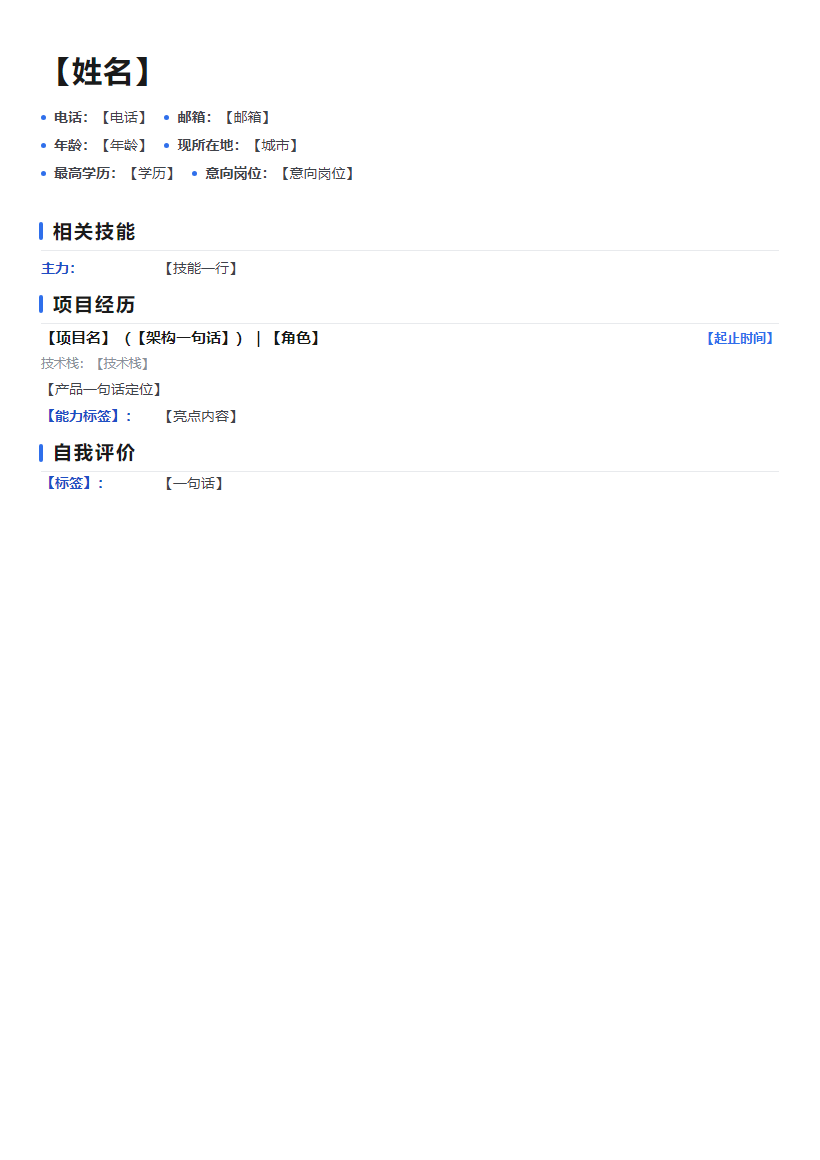
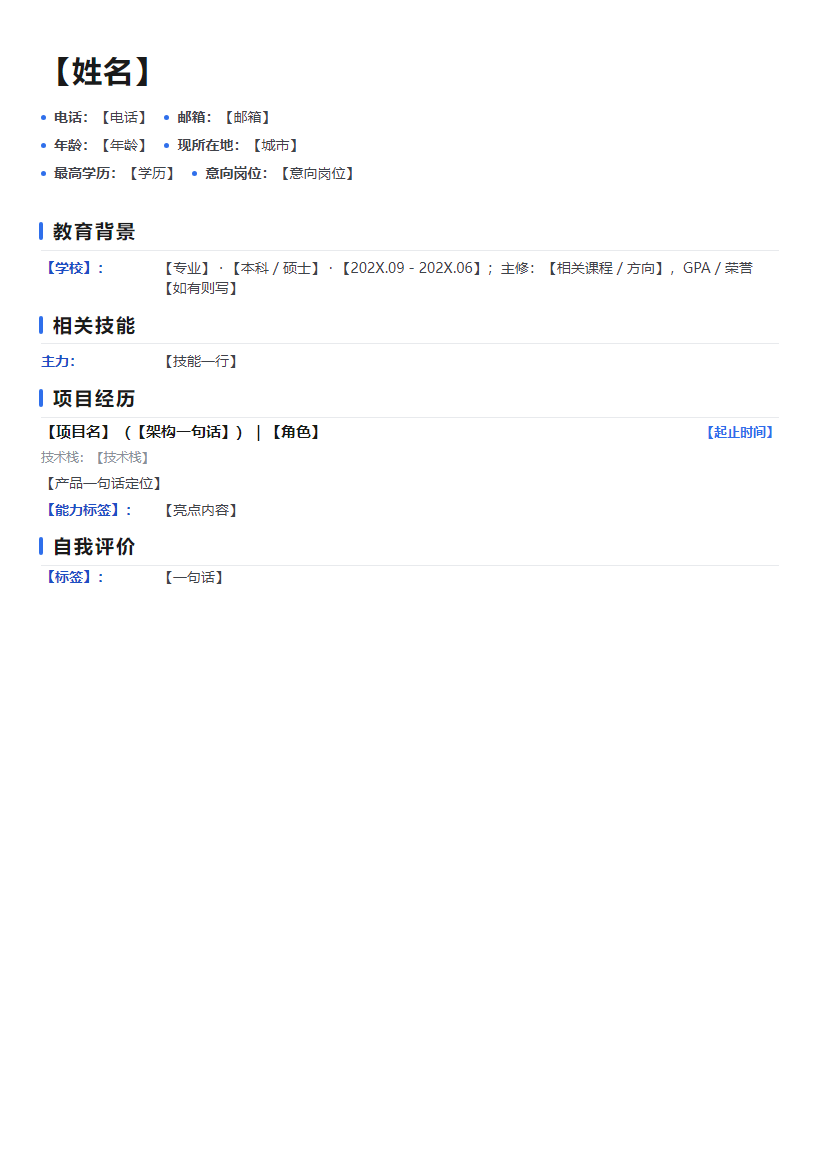
feat: P1 - education section in all templates + JD coverage pre-check + external-PDF review limitation

diff --git a/references/templates/template-accent.html b/references/templates/template-accent.html
@@ -59,6 +59,15 @@
     </div>
   </div>
 
+  <!-- 教育背景：应届 / 校招 / 实习简历默认保留；社招简历可整段删除 -->
+  <div class="section">
+    <div class="sec-title"><span class="bar"></span><span>教育背景</span></div>
+    <div class="divider"></div>
+    <div class="skillslist">
+      <div class="srow"><span class="slab">【学校】：</span><span class="scont">【专业】 · 【本科 / 硕士】 · 【202X.09 - 202X.06】；主修：【相关课程 / 方向】，GPA / 荣誉【如有则写】</span></div>
+    </div>
+  </div>
+
   <div class="section">
     <div class="sec-title"><span class="bar"></span><span>相关技能</span></div>
     <div class="divider"></div>

diff --git a/references/templates/template-sidebar.html b/references/templates/template-sidebar.html
@@ -80,6 +80,13 @@
   </aside>
 
   <main class="col">
+    <!-- 教育背景：应届 / 校招 / 实习简历默认保留；社招简历可整段删除 -->
+    <div class="section">
+      <div class="sec-title-main"><span class="bar"></span><span>教育背景</span></div>
+      <div class="divider"></div>
+      <div class="prow"><span class="plab">【学校】：</span><span class="pcont">【专业】 · 【本科 / 硕士】 · 【202X.09 - 202X.06】；主修：【课程 / 方向】</span></div>
+    </div>
+
     <div class="section">
       <div class="sec-title-main"><span class="bar"></span><span>项目经历</span></div>
       <div class="divider"></div>

diff --git a/references/templates/template-minimal.html b/references/templates/template-minimal.html
@@ -53,6 +53,13 @@
     </div>
   </div>
 
+  <!-- 教育背景：应届 / 校招 / 实习简历默认保留；社招简历可整段删除 -->
+  <div class="section">
+    <div class="sec-title"><span>教育背景</span><em>EDUCATION</em></div>
+    <div class="divider"></div>
+    <div class="srow"><span class="slab">【学校】</span><span class="scont">【专业】 · 【本科 / 硕士】 · 【202X.09 - 202X.06】；主修：【课程 / 方向】</span></div>
+  </div>
+
   <div class="section">
     <div class="sec-title"><span>相关技能</span><em>SKILLS</em></div>
     <div class="divider"></div>

diff --git a/SKILL.md b/SKILL.md
@@ -46,6 +46,7 @@ description: >
 - **个人信息**：姓名/电话/邮箱/学历/所在地/可到岗时间。未提供一律用【占位】交给用户填。
 - **复用现有资产**：先看当前项目根目录有没有 `简历-*.md`、`BOSS*.md`、`resume.html`、`_resume_assets/` 等既有简历文件。有就**先读**——复用版式结构、既有成熟表述，避免重复劳动；曾用本 skill 生成过简历的项目尤其适用。
 - **资料库优先**：再读 `简历-资料库.md`（跨岗位共享的个人信息与事实源，格式见 writing-guide）。存在则占位符优先用它填，缺什么才问用户；本次新确认的信息在 Step 7 回写。
+- **资料库隐私兜底**：创建资料库**前**必须检查项目 `.gitignore` 有没有 `*简历*` 排除规则——资料库含真实电话邮箱，没有这条规则就**先补上再创建**（连同 `*简历*.pdf/.html/.png`），防止敏感信息被提交；规则已存在的仓库不用重复加。
 
 ## Step 2 解析 JD（仅当提供了具体公司 JD）
 
@@ -54,6 +55,7 @@ description: >
 - 提取：公司/业务背景、职位名称与层级、硬性要求、技术栈关键词、职责项、加分项、软性要求
 - 产出"**JD 响应清单**"：JD 每条硬性要求 → 对应项目里的证据，或标注"未覆盖"
 - 后续定向以 JD 为准，`positions.md` 岗位矩阵只用于判断岗位大类
+- **覆盖率前置预警**：解析完先估"硬性要求 → 证据"命中率。若核心硬性要求（学历门槛 / 关键技术栈 / 经验年限）**全部无证据**，或命中率不足一半，**先停下来**向用户说明：哪些要求撑不起、当前项目与 JD 的差距、继续投的风险——用户确认"继续（接受薄简历 / 未覆盖标注）"才动笔，不要硬出一份单薄简历
 
 ## Step 3 识别项目
 
@@ -91,7 +93,7 @@ description: >
 
 按 `references/writing-guide.md` 的模板与写作原则撰写：
 
-- 结构：个人信息 / 相关技能 / 项目经历 / 自我评价
+- 结构：个人信息 / 教育背景（应届·校招·实习默认保留，社招可省，模板里自带该板块）/ 相关技能 / 项目经历 / 自我评价
 - 项目经历用亮点 bullet：做了什么 + 怎么做 + 结果/规模
 - 技术栈排序以岗位（或 JD 技术栈）为核心，辅助技术压后或并入"辅助扩展"一行
 - **模板选择**：调用参数带版式关键词时切换模板——`双栏/侧栏`→`references/templates/template-sidebar.html`、`极简/黑白/学术/外企`→`template-minimal.html`、`现代/彩色/渐变/设计感`→`template-accent.html`、不带关键词或`经典/商务`→内置 `resume-template.html`（经典单栏）。关键词认不出（如"好看点的"）→ AskUserQuestion 列四套让用户选。矩阵见 `references/templates/README.md`；所有模板共享同一契约（@page 615.1pt×870pt、body 820×1160、tier 密度档、fit 脚本），换模板不影响单页保证
@@ -137,5 +139,7 @@ description: >
 1. **版式**：没有同名 PNG 先用 `pdf_build.ps1` 打一张，`Read` PNG 检查：恰好一页、字号 ≥12px、底部留白、有无溢出 / 截断（**禁止 Read PDF**）
 2. **真实性**：逐条 grep 溯源技术名词 / 数量 / 链接，标出无法溯源或存疑的论断（对照 writing-guide 的真实性红线）
 3. **表达**：对照 bullet 模板查——被动词（负责 / 参与 / 协助）、无证据空话（"精通""学习能力强"）、缺量化数字、同一技术词跨条重复
+
+- **范围限制**：只能审查有 md / HTML 源的简历。外部 PDF 无法渲染校验（无头浏览器截 PDF 只得到空白图，已实测）——收到的第三方 PDF 请让用户给 md / HTML 源，或明确说明"仅凭口述无法校验版式"
 
 输出：按严重度排序的问题清单（每条给位置 + 问题 + 改法建议）→ 用户挑选要改哪些 → 按 Step 6 重出受影响部分并重新过 Step 7。

diff --git a/references/writing-guide.md b/references/writing-guide.md
@@ -19,6 +19,9 @@
 年龄：【年龄】　现所在地：【城市】
 最高学历：【本科/硕士】　意向岗位：<目标岗位>
 
+## 教育背景（应届 / 校招 / 实习默认保留；社招可省）
+【学校】·【专业】·【学历，起止时间】·【主修课程 / GPA / 荣誉，有则写】
+
 ## 相关技能
 （按岗位核心程度排序，3-5 行）
 
